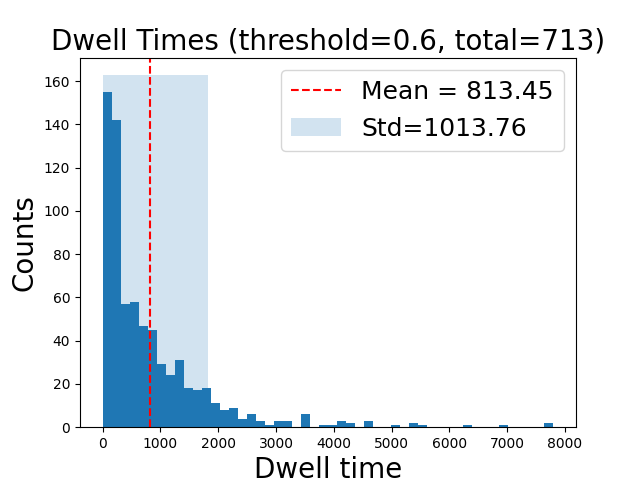
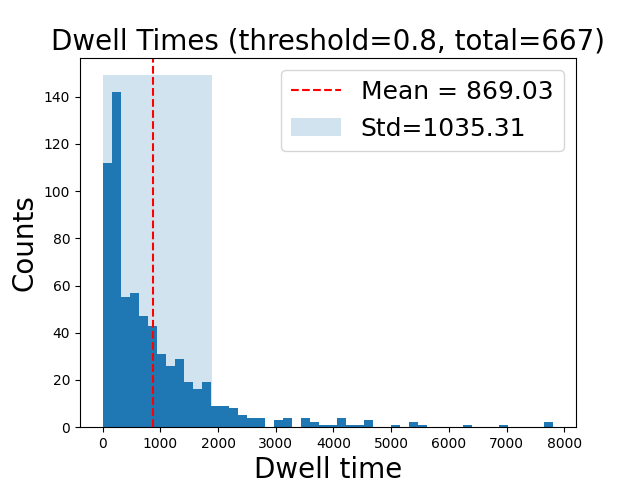
a

diff --git a/src/permanence.py b/src/permanence.py
@@ -22,7 +22,7 @@ from parameters import (
 npy_path = os.path.join(os.path.dirname(__file__), "..", f'{multiple_dir_name}{"_"}{N}', 'npy')
 patterns_path = os.path.join(npy_path, 'memory_patterns.npy')
 firing_rates_path = os.path.join(npy_path, 'firing_rates')
-threshold = 0.6
+threshold = 0.8
 
 import numpy as np
 
@@ -56,44 +56,37 @@ def calculate_permanence_single_trial(overlaps, threshold=0.8, dt=None, smooth_w
     n_timepoints, n_patterns = overlaps.shape
     step_value = dt if dt is not None else 1.0
 
+    # smoothing
     if smooth_window > 1:
-        # smoothing overlaps with a moving average of window size
-        window_size = smooth_window
         cumsum = np.cumsum(np.insert(overlaps, 0, 0, axis=0), axis=0)
-        overlaps = (cumsum[window_size:] - cumsum[:-window_size]) / window_size
-    else:
-        None
-
-    # Identify the pattern with the highest overlap at each time step
-    max_indices = np.argmax(overlaps, axis=1)   # pattern index with max overlap
-    max_values = np.max(overlaps, axis=1)       # value of that max overlap
-
-    # Active pattern: index if above threshold, else -1 (no active pattern)
-    active_pattern = np.where(max_values > threshold, max_indices, -1)
+        overlaps = (cumsum[smooth_window:] - cumsum[:-smooth_window]) / smooth_window
 
     permanence_times = []
     current_pattern = None
     current_duration = 0.0
 
-    # Traverse the temporal sequence
-    for winner in active_pattern:
-        if winner == current_pattern:
-            # Same pattern continues being active
-            if winner != -1:
-                current_duration += step_value
-        else:
-            # Pattern changed or no pattern is currently active
-            if current_pattern is not None and current_pattern != -1 and current_duration > 0:
-                permanence_times.append(current_duration)
-            # Start new permanence if a new pattern becomes active
-            if winner != -1:
-                current_pattern = winner
-                current_duration = step_value
-            else:
-                current_pattern = None
-                current_duration = 0.0
+    for t in range(overlaps.shape[0]):
+        max_idx = np.argmax(overlaps[t])
 
-    # Do NOT add last episode if still ongoing at the end
+        if current_pattern is None:
+            # start new dwell
+            current_pattern = max_idx
+            current_duration = step_value
+        else:
+            if max_idx == current_pattern:
+                # continue dwell
+                current_duration += step_value
+            else:
+                # close dwell and start new one if above threshold
+                permanence_times.append(current_duration)
+                if overlaps[t, max_idx] > threshold:
+                    current_pattern = max_idx
+                    current_duration = step_value
+                else:
+                    current_pattern = None
+                    current_duration = 0.0
+
+    # do not add last dwell if still ongoing
     return np.array(permanence_times)
 
 # Prepare phi function parameters
@@ -159,13 +152,13 @@ if __name__ == "__main__":
         mean_perm = np.mean(all_perm)
         std_perm = np.std(all_perm)
     else:
-        mean_perm, std_perm, all_perm = calculate_permanence_statistics(threshold=threshold, dt=dt, file_path=firing_rates_path, smooth_window=10)
+        mean_perm, std_perm, all_perm = calculate_permanence_statistics(threshold=threshold, dt=dt, file_path=firing_rates_path, smooth_window=100)
     print(f"Mean permanence time above threshold {threshold}: {mean_perm:.2f}")
     print(f"Standard deviation of permanence times: {std_perm:.2f}")
     np.save(os.path.join(npy_path, "permanence_times.npy"), all_perm)
     # draw the histogram of all permanence times
     # print the fraction of permanence times lower than 200
-    fraction_below_200 = np.sum(all_perm < 10) / len(all_perm)
+    fraction_below_200 = np.sum(all_perm < 100) / len(all_perm)
     print(f"Fraction of permanence times below 200: {fraction_below_200:.2f}") 
     plt.axvline(mean_perm, color='r', linestyle='--', label='Mean = {:.2f}'.format(mean_perm))
     plt.hist(all_perm, bins=50, density=False)
@@ -184,7 +177,7 @@ if __name__ == "__main__":
     sample_overlaps = calculate_pattern_overlaps(sample_firing_rates, eta, phi_params, g_params, use_numba=use_numba, use_g=use_g)
     n_timepoints, n_patterns = sample_overlaps.shape
     time = np.arange(n_timepoints) * dt
-    # smoothing overlaps with a moving average of window size 5
+    # smoothing overlaps with a moving average of window size 100
     window_size = 100
     cumsum = np.cumsum(np.insert(sample_overlaps, 0, 0, axis=0), axis=0)
     smoothed_overlaps = (cumsum[window_size:] - cumsum[:-window_size]) / window_size

diff --git a/src/main.py b/src/main.py
@@ -167,7 +167,7 @@ def single_simulation(addition, W_S, W_A_sim, W, eta, phi_eta, t_span, ou_params
             plt.plot(t, overlaps[:, i], label=f'Pattern {i+1}', linewidth=2)
         plt.xlabel('Time')
         plt.ylabel('Pattern Overlap')
-        plt.title(f'Memory Pattern Overlaps (A={A_S}, seed = {seed})')
+        plt.title(f'Overlaps ($\\bar{{\\zeta}} = {zeta_bar} $, $\\tau_\\zeta = {tau_zeta}$, A={A_S}, seed = {seed})')
         plt.grid(True)
         plt.legend()
     else:

diff --git a/src/parameters.py b/src/parameters.py
@@ -99,7 +99,7 @@ plot_heatmap= False,
 verbose = True
 ou_threshold = 2.  # Threshold for highlighting OU noise in plots
 single_dir_name = "simulation_results_new_new"
-multiple_dir_name = "multiple_simulations_prova"
+multiple_dir_name = "multiple_simulations"
 
 # Number of runs
 runs = 20

diff --git a/src/simulation.py b/src/simulation.py
@@ -532,6 +532,7 @@ def simulation():
     figs[titles[3]] = (fig, ax)
     path = os.path.join(output_dir, f"{titles[3]}.png")
     fig.savefig(path, dpi=300)
+    # plt.show()
     plt.close(fig)
     logger.info(f"Saved {titles[3]} → {path}")
 
